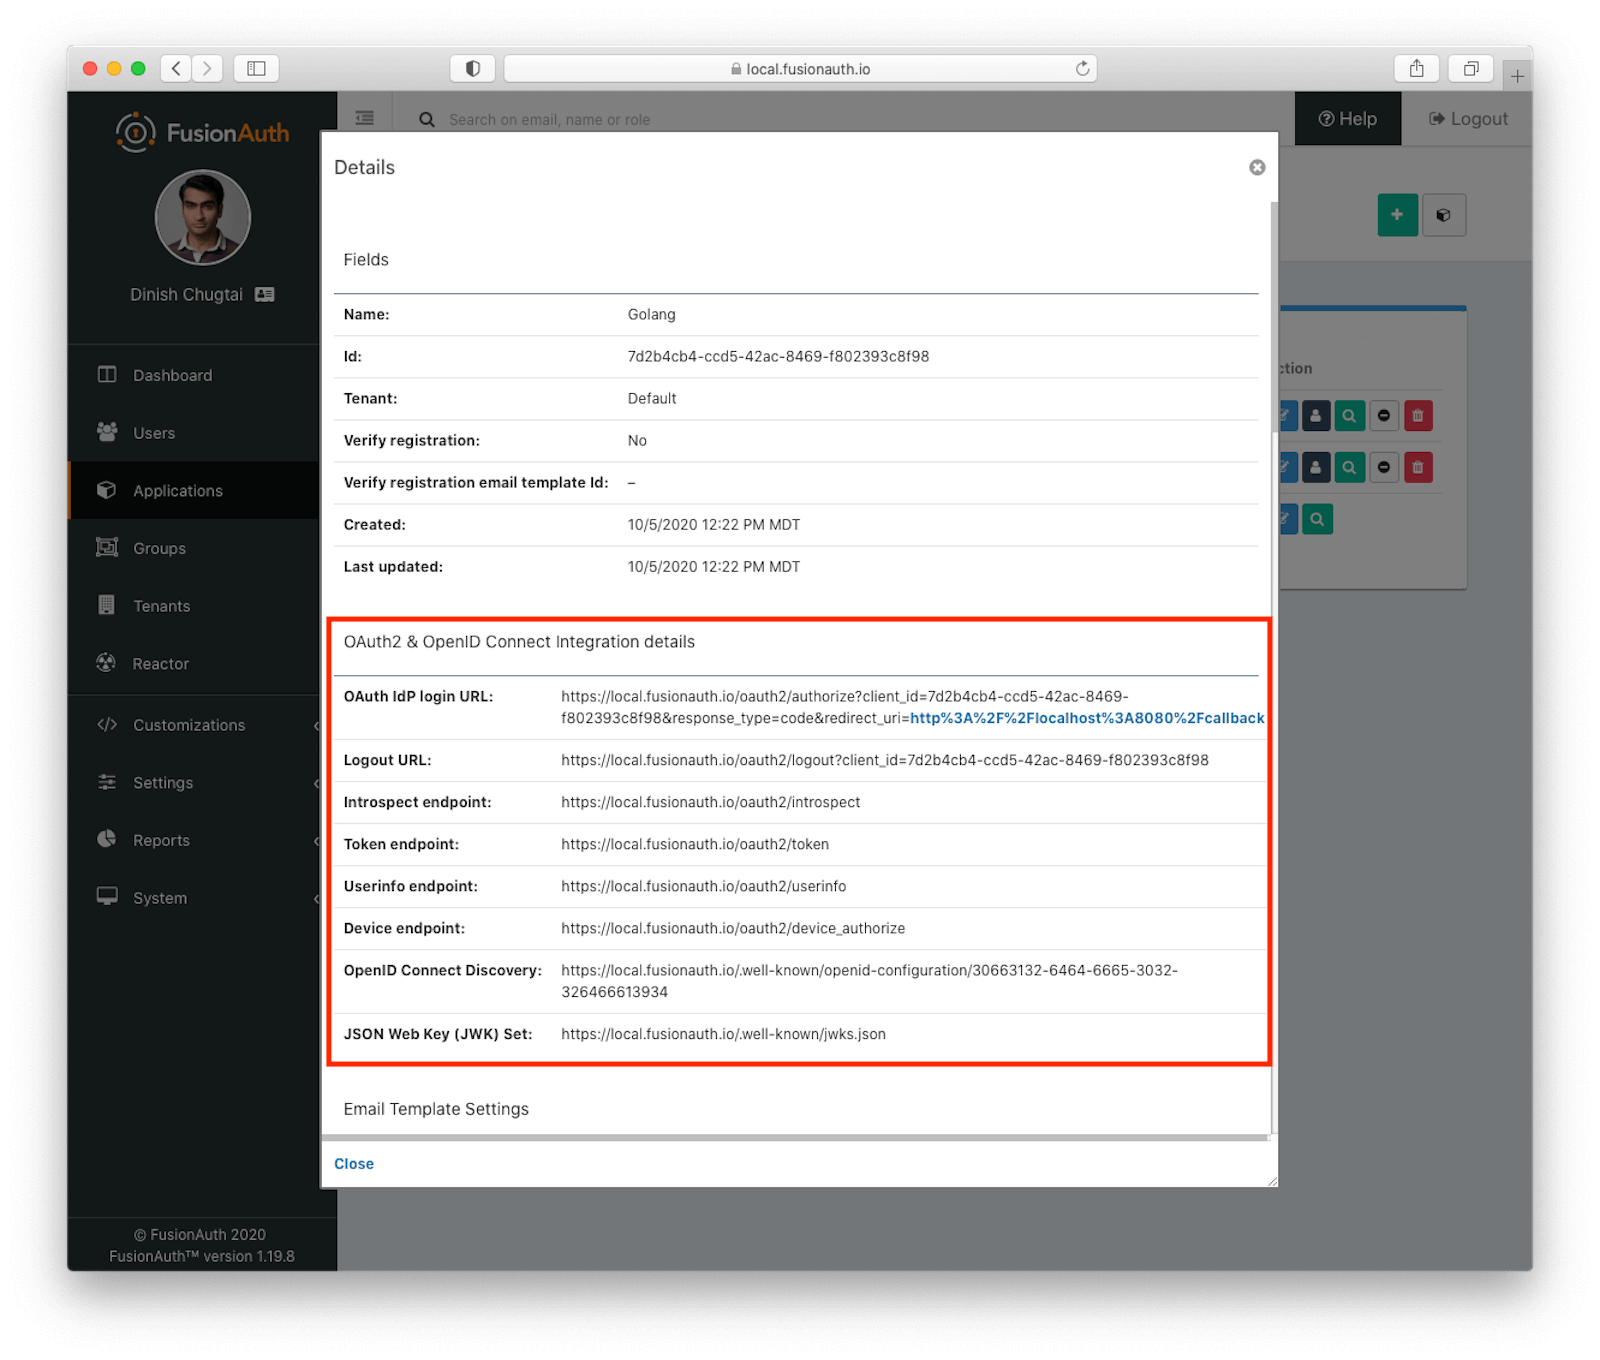
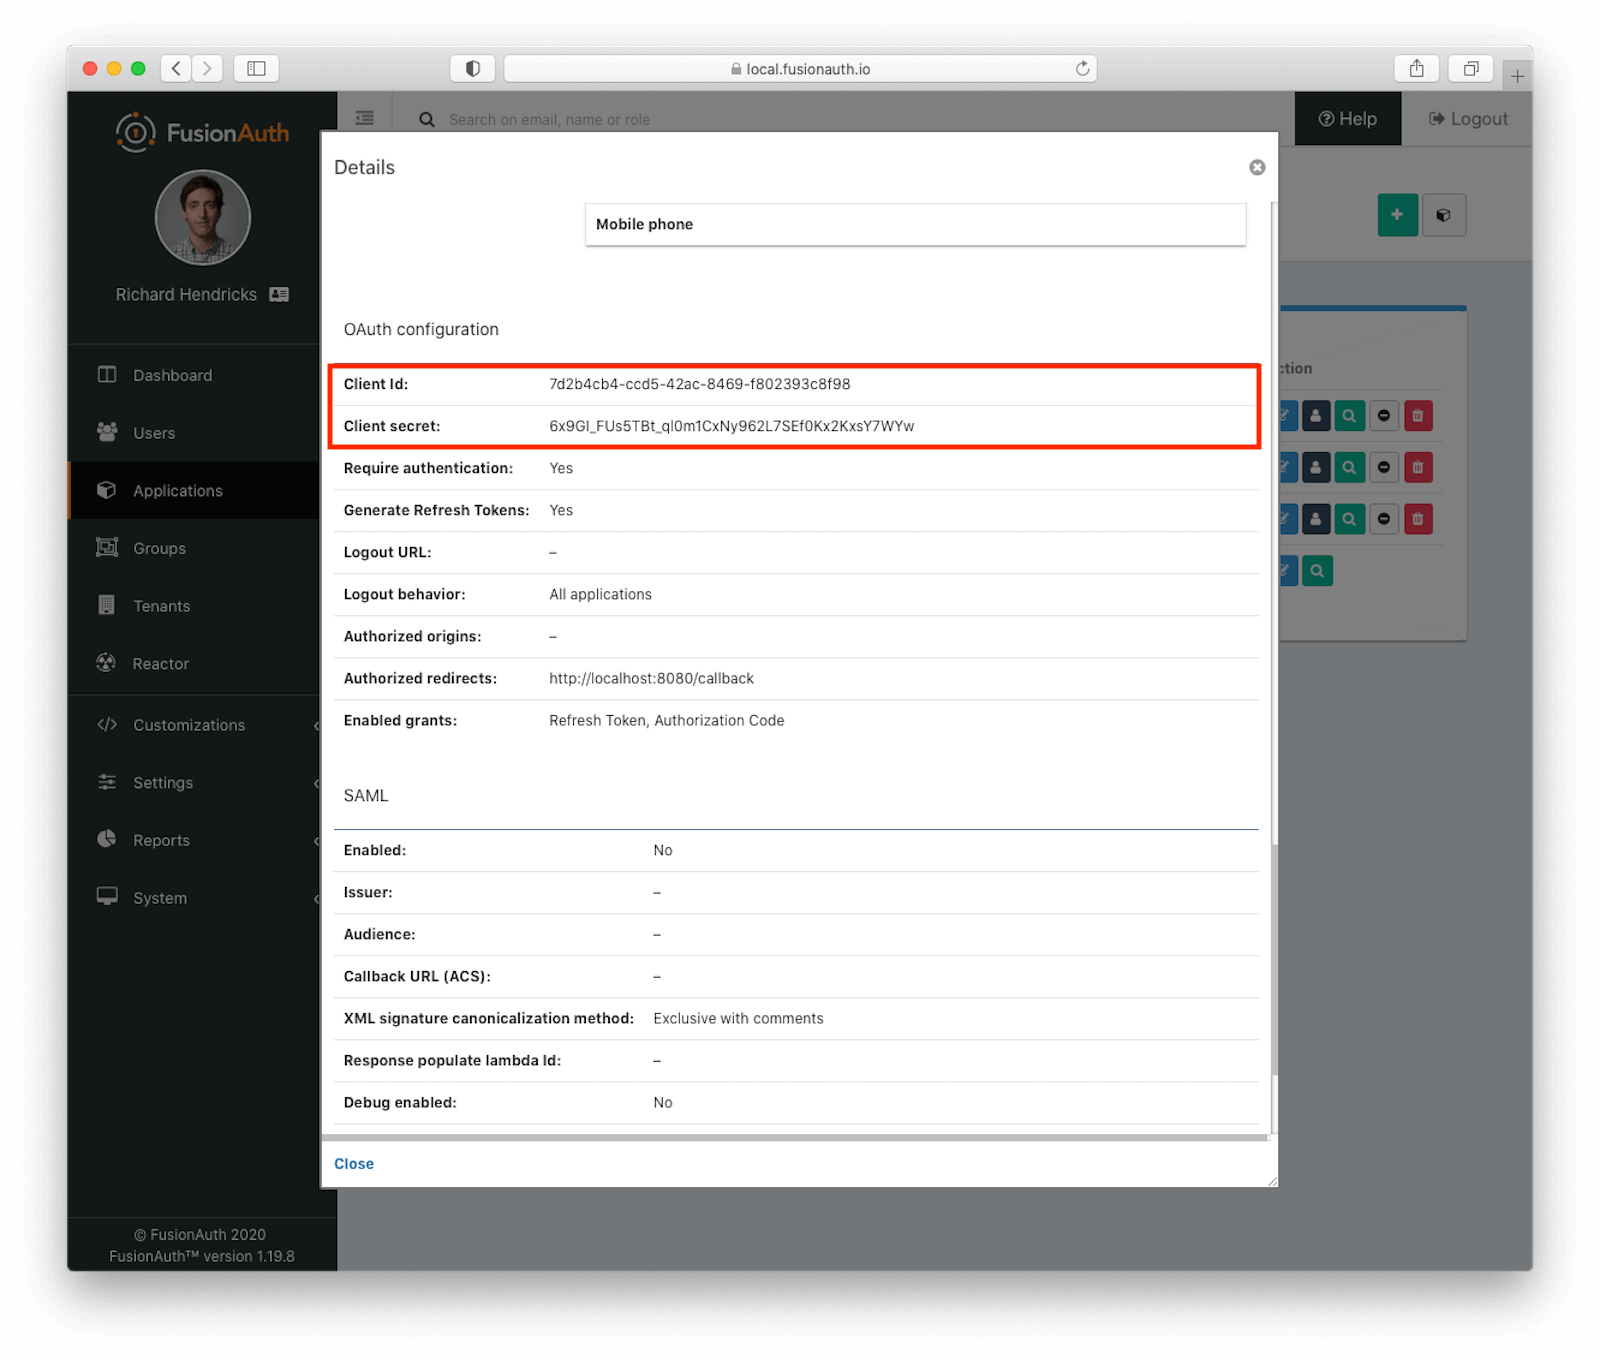
Another revision, updated image.
We now need the client secret because we are authenticating the request to the token endpoint.

Changed region(s): [[0.1875, 0.1853, 0.9062, 0.8338], [0.0938, 0.1235, 0.1875, 0.2471], [0.375, 0.1544, 0.4375, 0.1853]]

diff --git a/site/_posts/2020-10-05-using-oauth-golang.md b/site/_posts/2020-10-05-using-oauth-golang.md
@@ -9,11 +9,11 @@ tags: client-golang
 excerpt_separator: "<!--more-->"
 ---
 
-In this tutorial, we are going to learn how to secure a golang program with OAuth while using FusionAuth as an auth provider. Authentication and authorization are essential for any application, and golang apps are no different. 
+In this tutorial, we are going to learn how to secure a golang program with OAuth while using FusionAuth as the auth provider. Authentication and authorization are essential for any application, and golang apps are no different. 
 
 <!--more-->
 
-First, we will set up the FusionAuth server. Then, we'll configure the golang program to construct a URL to direct a user to a login form, generated by FusionAuth. Lastly, we will learn how to make use of an access token in order to get user data using OIDC. 
+First, we will set up the FusionAuth server. Then, we'll configure the golang program to construct a URL to direct a user to a login form generated by FusionAuth. Lastly, we will learn how to make use of an access token in order to get user data using OIDC. 
 
 You can follow along conceptually, or check out the [GitHub repo](https://github.com/fusionauth/fusionauth-example-go) with the complete implementation first. Now, let’s get started!
 
@@ -24,12 +24,11 @@ The requirements to follow this tutorial are as follows:
 * Go SDK
 * VScode or any other text editor
 * FusionAuth
-* git for version control
 * Homebrew (optional)
 
 ## Setting up FusionAuth as your auth provider
 
-FusionAuth lets you [pick your installation method](/docs/v1/tech/installation-guide/). However, in this post, we'll be on macOS using Homebrew. The process is simple. First, we are going to install the tap by running the following command in the terminal:
+FusionAuth lets you [pick your installation method](/docs/v1/tech/installation-guide/). However, in this post, we'll install using Homebrew. The process is simple. First, we install the tap by running the following command in the terminal:
 
 ```shell
 brew tap fusionauth/homebrew-fusionauth
@@ -51,21 +50,21 @@ In order to get started, we need to open our browser and go to `http://localhost
 
 ### Setup FusionAuth with the installation wizard
 
-We will see the maintenance mode form that requires a super user credential for your database:
+The maintenance mode form requires a super user credential for your database:
 
 {% include _image.liquid src="/assets/img/blogs/golang-oauth/maintenance-mode-database.png" alt="The FusionAuth maintenance mode screen, including the super user configuration." class="img-fluid" figure=false %}
 
-It will use this to create a database user for FusionAuth to connect to. Further down the maintenance mode page, you can specify the username and password of this user:
+It will use these credentials to create a database user for FusionAuth to connect as. Further down the maintenance mode page, you can specify the username and password of this user if you choose:
 
 {% include _image.liquid src="/assets/img/blogs/golang-oauth/maintenance-mode-database-lower.png" style="margin-top:30px;" alt="Adding a user for FusionAuth to connect as." class="img-fluid" figure=false %}
 
-If you want to create a FusionAuth user and database using your own tools, rather than maintenance mode, you can. See the [silent mode documentation](/docs/v1/tech/guides/silent-mode) for more on this.
+If you want to create a FusionAuth user and database using different tools, rather than maintenance mode, you can. See the [silent mode documentation](/docs/v1/tech/guides/silent-mode) for more on this option.
 
 Once you've created a database for FusionAuth, you'll need to accept the license and create an initial FusionAuth account:
 
 {% include _image.liquid src="/assets/img/blogs/golang-oauth/setup-wizard.png" alt="The FusionAuth setup wizard." class="img-fluid" figure=false %}
 
-Then you'll need to log in to your new FusionAuth account. This user has administrative privileges within the FusionAuth instance:
+Then you'll need to log in to this new FusionAuth account. This user has administrative privileges within the FusionAuth instance:
 
 {% include _image.liquid src="/assets/img/blogs/golang-oauth/login-admin-screen.png" alt="Logging in to the FusionAuth administrative user interface." class="img-fluid" figure=false %}
 
@@ -75,19 +74,17 @@ Initially, there will be only one application: FusionAuth itself. Hence, we need
 
 Then, we need to configure this application. First, add the authorized callback of `http://localhost:8080/callback`. This is the URL which will process the authorization code should a user authenticate successfully. 
 
-In addition, make sure that the Authorization Code checkbox is already checked and enabled. This is the grant we'll be using, and the one that is recommended for most use cases. 
+In addition, make sure that the Authorization Code checkbox is checked. This is the grant we'll be using, and the one that is recommended for most use cases. 
 
-After successful setup, view the application by clicking the green magnifying glass. We will see the endpoint details:
+After successful setup, view the application by clicking the green magnifying glass. The OAuth `Client ID` and `Client Secret` values can also be found on the same screen, in the "OAuth configuration" section. You'll want to note both of those.
 
 {% include _image.liquid src="/assets/img/blogs/golang-oauth/oauth-configuration.png" alt="The application configuration screen." class="img-fluid" figure=false %}
-
-The OAuth `Client ID` and `Client Secret` values can also be found on the same screen, a bit lower.
 
 We set up this application in the default tenant. FusionAuth supports multi-tenant configurations, but for this post, we'll keep all user data in one tenant, as that makes things slightly simpler. Now, our FusionAuth setup is complete. Let's move to the golang part.
 
 ## Setting up the development environment for Go
 
-We are going to set up a development environment for the Go ecosystem. First, we need to download Go from its [official website](https://golang.org/).
+We are going to set up a development environment for go. You can skip this if you already have it set up. First, we need to download Go from its [official website](https://golang.org/).
 
 Let's walk before we run. Here's the the simplest Go project; not surprisingly this is the typical 'Hello World' program. This is what it looks like:
 
@@ -129,7 +126,7 @@ import (
 //...
 ```
 
-Depending on your golang setup you may need to `get` the nonstandard packages (I did):
+Depending on your golang setup you may need to `get` the nonstandard packages:
 
 ```shell
 go get github.com/thanhpk/randstr
@@ -147,7 +144,7 @@ var (
 //...
 ```
 
-Next, we need to create a new OAuth instance and configure it in the init function. Here, we only need `ClientID`, which we got from the FusionAuth application OAuth config section. We also need to define the OAuth2 endpoints (which we can pull from the [FusionAuth docs](/docs/v1/tech/oauth/endpoints)) and a callback URL (as entered in the FusionAuth config above):
+Next, we need to create a new OAuth instance and configure it in the init function. Here, we need `ClientID` and `ClientSecret`, which we got from the FusionAuth application OAuth config section. We also need to define the OAuth2 endpoints (which we can pull from the [FusionAuth docs](/docs/v1/tech/oauth/endpoints)) and a callback URL (as entered in the FusionAuth config above):
 
 ```go
 //...
@@ -155,17 +152,19 @@ func init() {
   FusionAuthConfig = &oauth2.Config{
     RedirectURL: "http://localhost:8080/callback",
     ClientID:    "7d2b4cb4-ccd5-42ac-8469-f802393c8f98",
+    ClientSecret:"6x9GI_FUs5TBt_ql0m1CxNy962L7SEf0Kx2KxsY7WYw",
     Scopes:      []string{"openid"},
     Endpoint: oauth2.Endpoint{
       AuthURL:  "http://localhost:9011/oauth2/authorize",
       TokenURL: "http://localhost:9011/oauth2/token",
+      AuthStyle: oauth2.AuthStyleInHeader,
     },
   }
 }
 //...
 ```
 
-Here, we have defined the OAuth instance inside the `init` function. This function is called and run every time the application is started. In a production application, these values may be pulled from a configuration file or a database table.
+Here, we have configure our OAuth connection inside the `init` function. This function is run every time the application is started. In a production application, these values should be pulled from a configuration file or a database table, rather than hard coded.
 
 ## Adding our display
 
@@ -195,7 +194,7 @@ func main() {
 //...
 ```
 
-Since we changed the code from the "Hello world" example, we need to restart the golang program. We need to stop the existing server. And then we need to restart it by using this command:
+Since we changed the code from the "Hello world" example, we need to restart the golang program. We need to stop the existing server. Then, restart it by using this command:
 
 ```shell
 go run main.go
@@ -222,7 +221,7 @@ func handleFusionAuthLogin(w http.ResponseWriter, r *http.Request) {
 
 ## Handling the callback
 
-In order to handle the callback, which will contain the `code` parameter and is crucial to the Authorization Code grant, we pass the temporary `code` and `state` variables to a `getUserInfo` function. We'll see the code behind that function below, but it is going to get user data back from FusionAuth. The code to handle the callback is:
+In order to handle the callback, which will contain the `code` parameter and is crucial to the Authorization Code grant, we pass the `code` and `state` variables to a `getUserInfo` function. We'll see the code behind that function below, but it is going to get user data back from FusionAuth. The code to handle the callback is:
 
 ```go
 //...
@@ -297,7 +296,7 @@ If you run this locally, you'll see something similar to what is in this video:
 
 Obviously you'd want to do more than just print out a JSON data structure in a real application. You'd want to show the user's data, welcome them, and/or show or hide functionality based on who they were. 
 
-You could also make requests to other APIs, presenting the access retrieved after the user signed in as the credentials for access.
+You could also make requests to other APIs, presenting the access token as a credential.
 
 ## Conclusion
 
